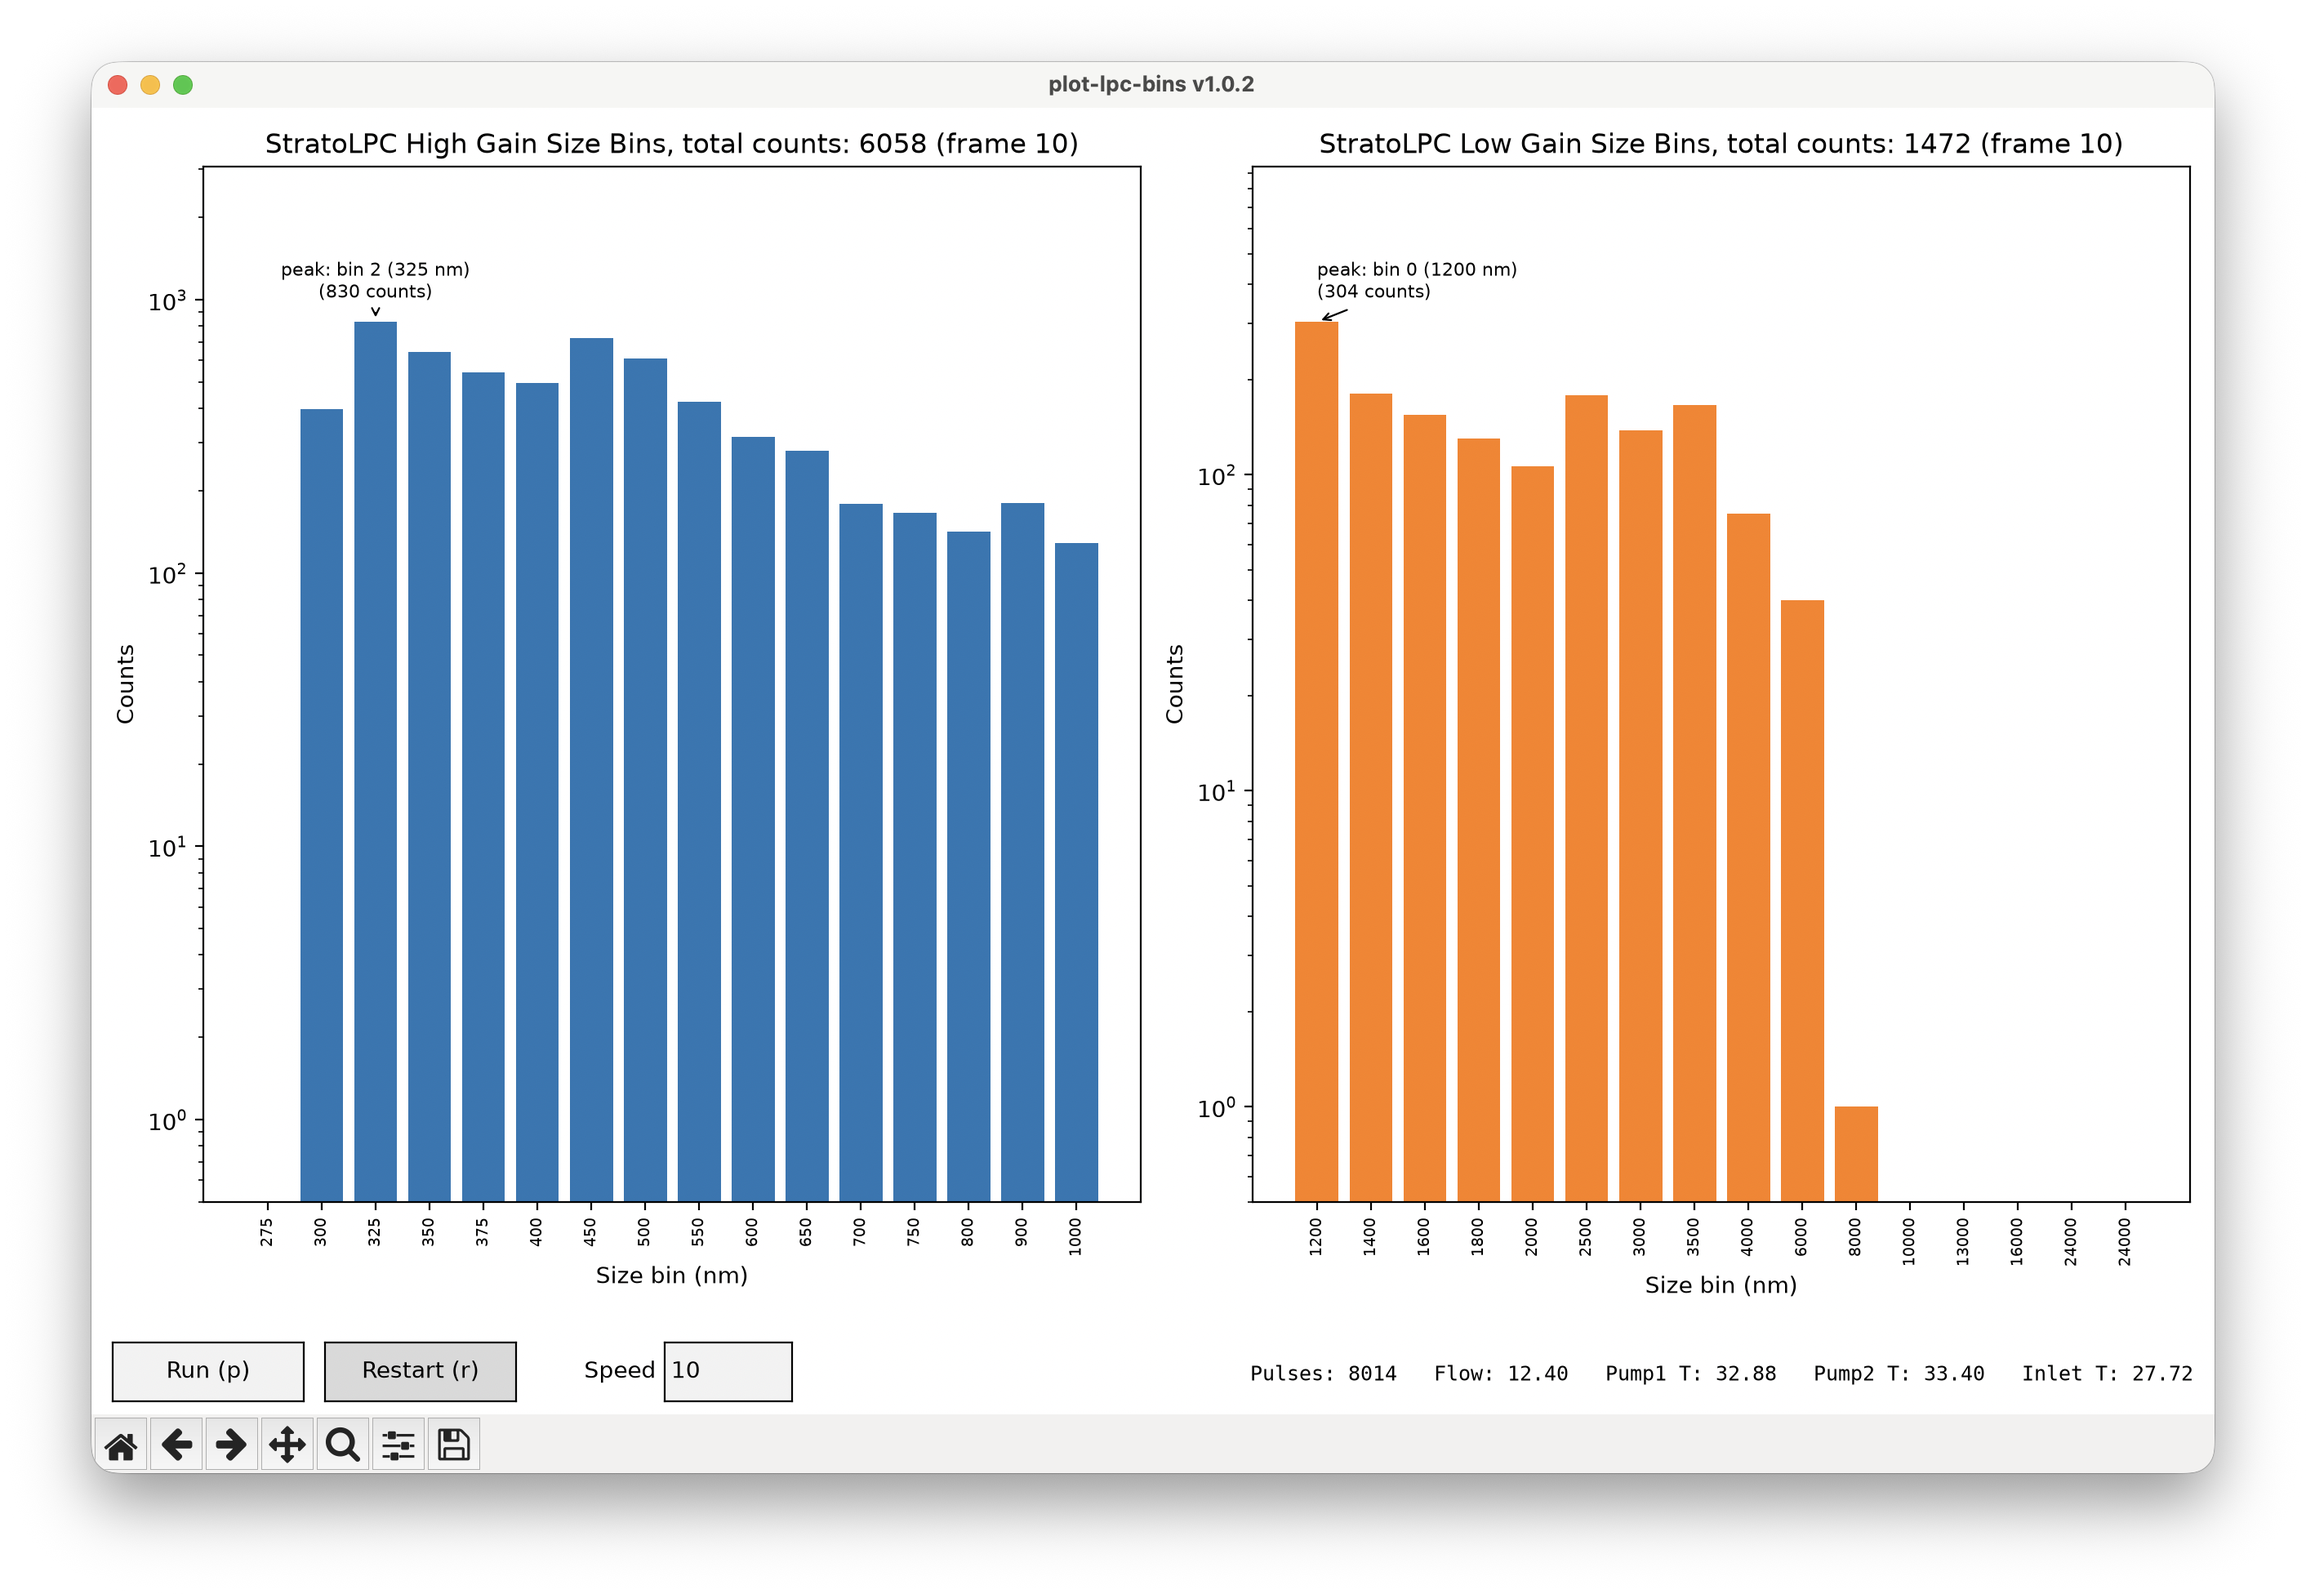
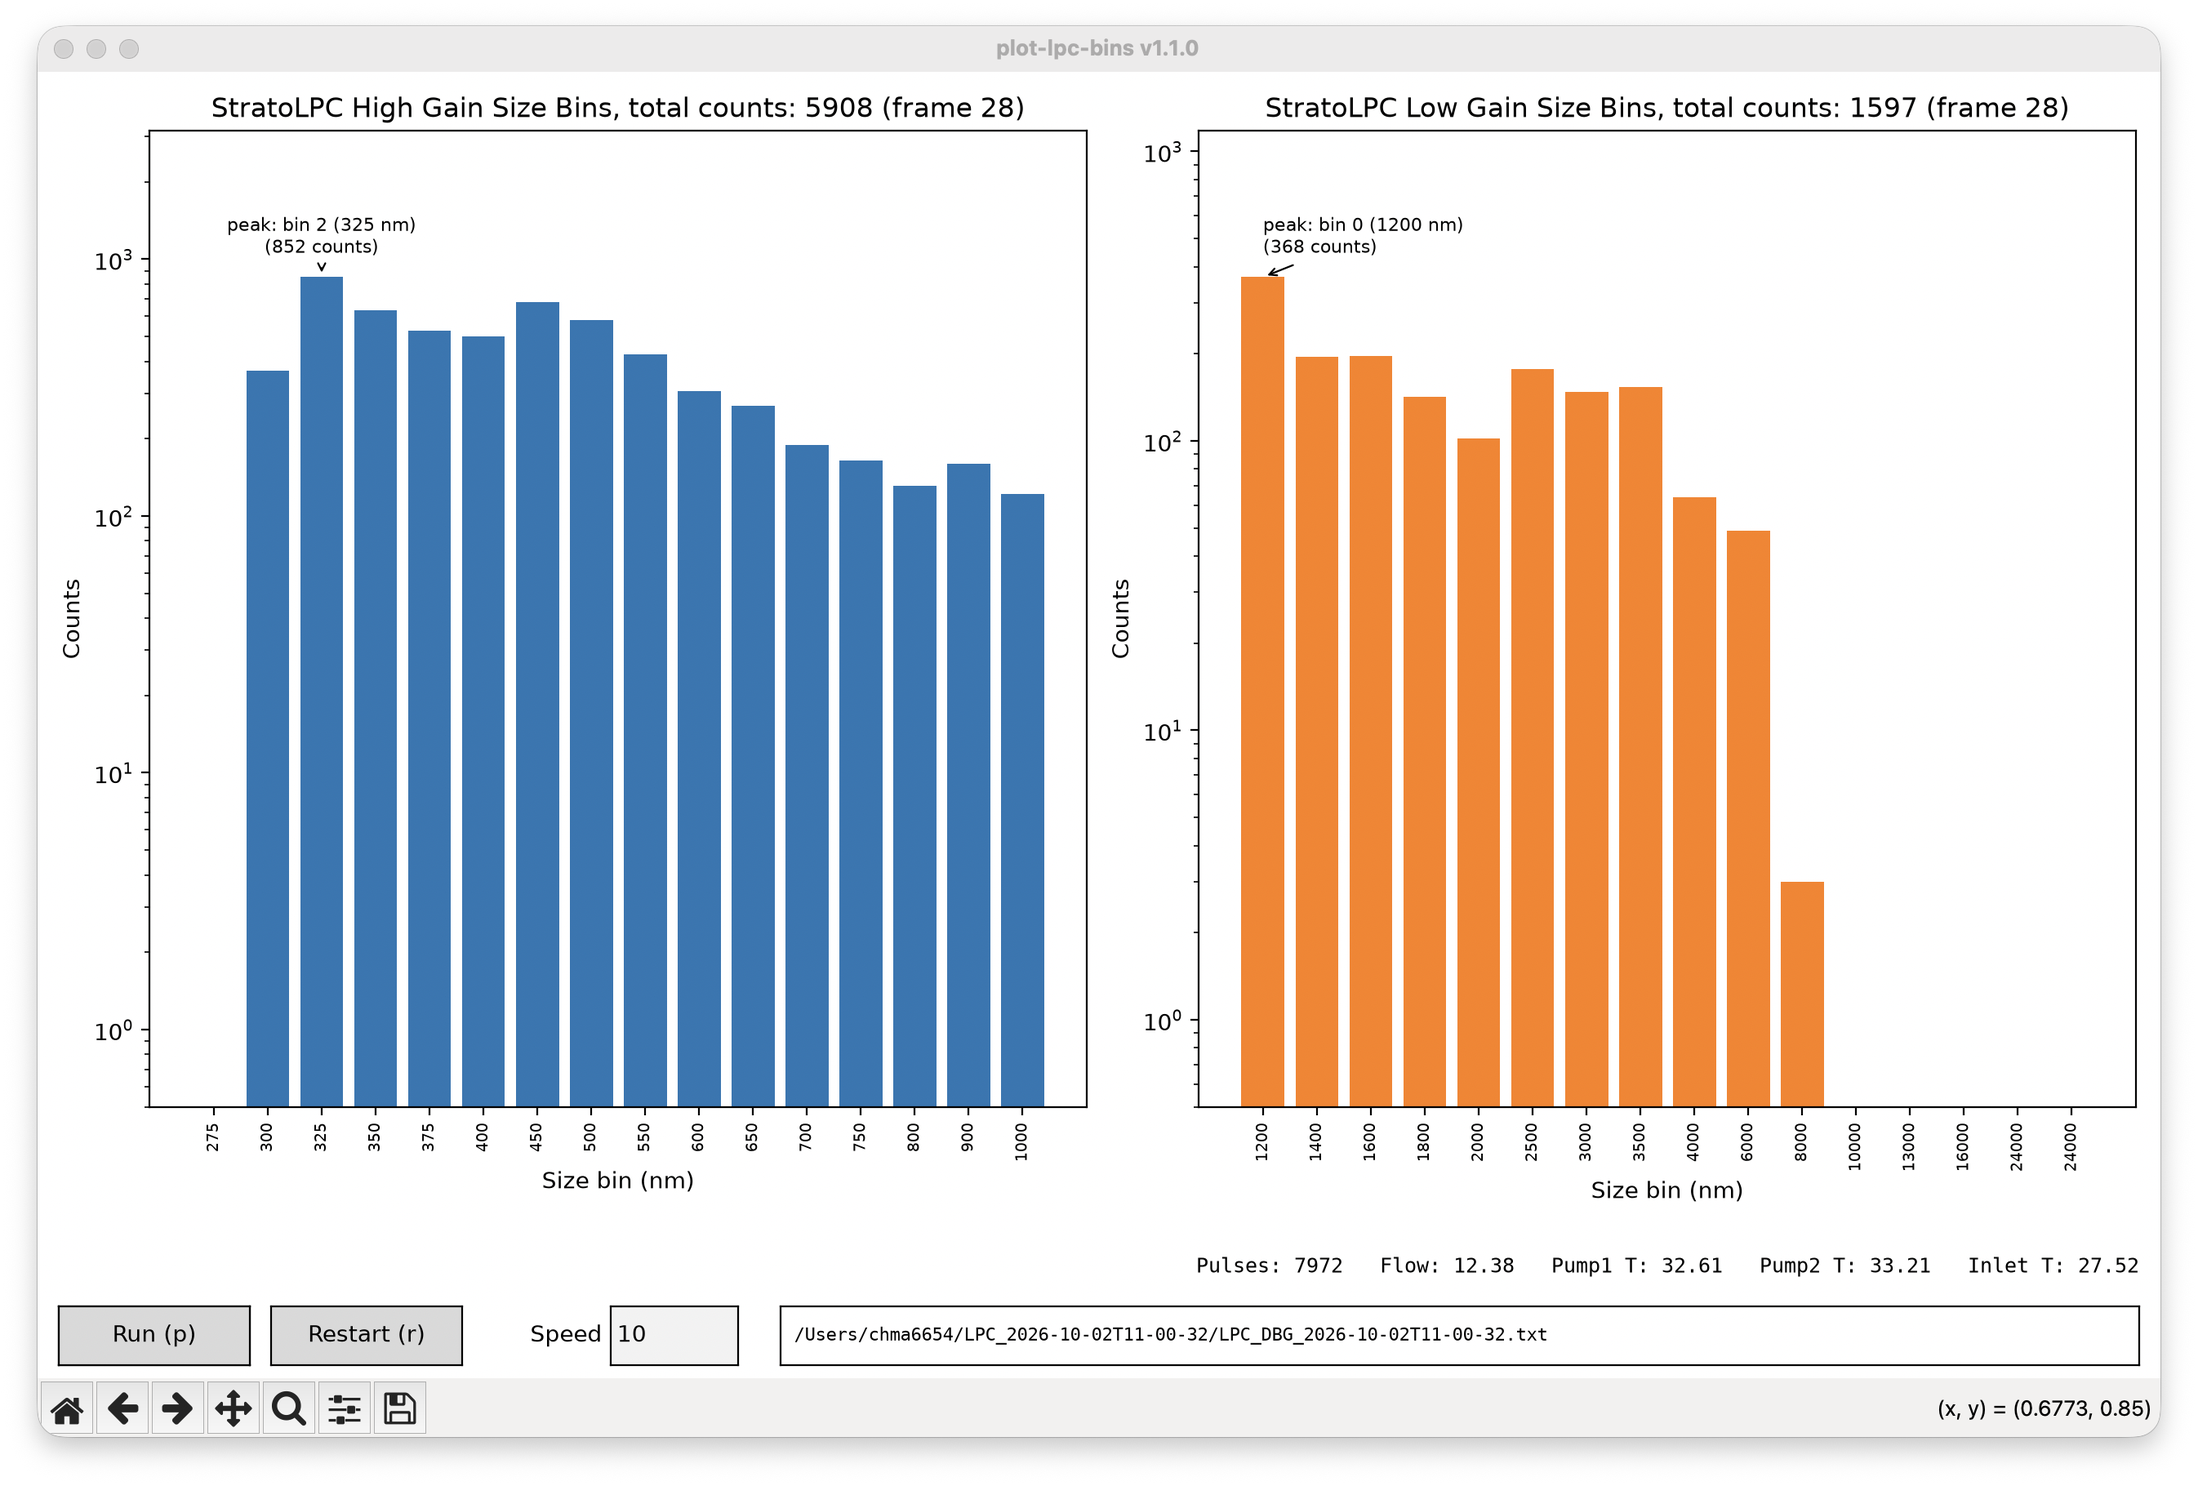
Capture live port data to a file; show the capture/replay file path
When reading from a live --port, record everything received to
LPC_capture_<timestamp>.txt (PHA_capture_<timestamp>.txt with --pha) in the
current directory. Lines are written by the reader thread as they arrive,
with the same [HH:MM:SS.mmm] prefix as the LPC_DBG logs, so a capture can be
replayed later with --file and --speed. Replays do not create a capture.

Show the full path of the capture file (live) or the replayed file
(--file) in a box at the bottom of the window, trimmed from the left only
if it doesn't fit. In live mode a Copy button puts the full path on the
clipboard (pbcopy / clip / wl-copy / xclip / xsel).

Move the housekeeping status bar to its own row above the buttons and path
box. Document the feature in the README and refresh the screenshot.

diff --git a/plot_lpc/plot_lpc_bins.py b/plot_lpc/plot_lpc_bins.py
@@ -61,15 +61,22 @@ Usage:
     # replay a timestamped log at 10x real time (1 = real time, 0.5 = half speed)
     python3 plot_lpc_bins.py --file LPC_DBG_log.txt --speed 10
 
+A live --port is also recorded to LPC_capture_<timestamp>.txt (PHA_capture_<timestamp>.txt with
+--pha) in the current directory; the path is shown at the bottom of the window
+with a Copy button.
+
 Requires: pyserial, matplotlib
     pip install pyserial matplotlib
 """
 
 import argparse
+import datetime
 import importlib.metadata
 import math
+import os
 import queue
 import re
+import subprocess
 import sys
 import threading
 import time
@@ -265,6 +272,74 @@ def window_title():
         return "plot-lpc-bins"
 
 
+class Capture:
+    """
+    Records everything arriving on a live port to <PREFIX>_capture_<YYYY-MM-DDTHH-MM-SS>.txt in
+    the current directory (PREFIX is LPC or PHA, mirroring the LPC_DBG_<timestamp>.txt
+    debug logs). Each line gets the same '[HH:MM:SS.mmm] ' prefix those logs use, so a
+    capture can be replayed later with --file (and --speed).
+    """
+
+    def __init__(self, prefix, args):
+        now = datetime.datetime.now()
+        self.path = os.path.abspath(f"{prefix}_capture_{now.strftime('%Y-%m-%dT%H-%M-%S')}.txt")
+        self._lock = threading.Lock()
+        self._f = open(self.path, "w", buffering=1)  # line buffered: always current on disk
+        self._f.write(f"{prefix} Capture: {now.strftime('%Y-%m-%d at %H:%M:%S')} ({args.port}, {args.baud} baud)\n\n")
+
+    def write(self, line):
+        stamp = datetime.datetime.now().strftime("%H:%M:%S.%f")[:-3]
+        with self._lock:
+            if self._f is not None:
+                self._f.write(f"[{stamp}] {line.rstrip(chr(13) + chr(10))}\n")
+
+    def close(self):
+        with self._lock:
+            if self._f is not None:
+                self._f.close()
+                self._f = None
+
+
+def add_text_box(fig, rect, text):
+    """
+    Add a bordered, read-only text box to the bottom strip. If the text doesn't fit
+    the box (at the window's initial size) its start is trimmed to "..." so the end
+    -- the file name -- stays visible.
+    """
+    ax = fig.add_axes(rect)
+    ax.set_xticks([])
+    ax.set_yticks([])
+    # clip_on so the text can never spill out of the box if the window is shrunk
+    label = ax.text(0.01, 0.5, text, va="center", ha="left", fontsize=8, family="monospace", clip_on=True)
+    try:
+        renderer = fig.canvas.get_renderer()
+    except AttributeError:  # backends without get_renderer()
+        renderer = fig._get_renderer()
+    room = ax.get_window_extent(renderer).width * 0.98 - 8  # pixels, minus the left inset
+    shown = text
+    while label.get_window_extent(renderer).width > room and len(shown) > 8:
+        shown = shown[1:]
+        label.set_text("..." + shown)
+    return ax
+
+
+def copy_to_clipboard(text):
+    """Put text on the system clipboard using the platform's tool; return True on success."""
+    if sys.platform == "darwin":
+        candidates = [["pbcopy"]]
+    elif sys.platform.startswith("win"):
+        candidates = [["clip"]]
+    else:
+        candidates = [["wl-copy"], ["xclip", "-selection", "clipboard"], ["xsel", "--clipboard", "--input"]]
+    for cmd in candidates:
+        try:
+            subprocess.run(cmd, input=text.encode(), check=True, timeout=5)
+            return True
+        except (OSError, subprocess.SubprocessError):
+            continue
+    return False
+
+
 class BinPlotter:
     """Owns the figure and knows how to redraw whichever bin arrays have new data."""
 
@@ -314,15 +389,16 @@ class BinPlotter:
                 ax.set_xlabel("Raw ADC bin (reversed)")
                 ax.set_ylabel("Counts")
 
-        # bottom strip: buttons (+ status bar in lpc mode); pha mode also leaves
-        # room at the top for its two-line titles
-        self.fig.tight_layout(rect=(0, 0.07, 1, 1 if mode == "lpc" else 0.94))
+        # bottom strip: a row of buttons + file path (y 0.01-0.055), with the
+        # status bar in a row above it in lpc mode; pha mode also leaves room at
+        # the top for its two-line titles
+        self.fig.tight_layout(rect=(0, 0.115 if mode == "lpc" else 0.07, 1, 1 if mode == "lpc" else 0.94))
         if mode == "lpc":
             # status bar: latest value of each housekeeping line (STATUS_FIELDS);
             # these lines only exist on the LPC console, so it's not shown for pha
             self.status = {key: "--" for key in STATUS_FIELDS.values()}
             self.status_text = self.fig.text(
-                0.99, 0.03, "", ha="right", va="center", fontsize=9, family="monospace"
+                0.99, 0.085, "", ha="right", va="center", fontsize=9, family="monospace"
             )
             self._render_status()
 
@@ -568,6 +644,16 @@ def main():
 
     plotter = BinPlotter("pha" if args.pha else "lpc")
 
+    # Live ports are recorded to a file in the current directory; replays aren't
+    capture = None
+    capture_error = None
+    if not args.file:
+        try:
+            capture = Capture("PHA" if args.pha else "LPC", args)
+        except OSError as e:
+            capture_error = str(e)
+            print(f"warning: not capturing data: {e}", file=sys.stderr)
+
     # Read the port/file on a background thread so the GUI never blocks on I/O.
     # The bounded queue throttles file replay (reader blocks when it's full)
     # while a live port just keeps filling it.
@@ -583,6 +669,8 @@ def main():
 
         try:
             for line in make_line_source(args):
+                if capture is not None:
+                    capture.write(line)  # on the reader thread, so a slow GUI never loses data
                 while not running.wait(0.2):  # hold here while paused
                     if superseded():
                         return
@@ -697,6 +785,38 @@ def main():
 
         plotter.fig.canvas.mpl_connect("key_press_event", on_key)
 
+        # full path of the file being replayed, where a live port shows its
+        # capture path (after the Speed box, out to the right edge)
+        add_text_box(
+            plotter.fig, [0.35, 0.01, 0.64, 0.045],
+            "stdin" if args.file == "-" else os.path.abspath(args.file),
+        )
+
+    # Capture file path box + Copy button (live ports only), in the bottom strip
+    if not args.file:
+        shown = capture.path if capture is not None else f"not capturing: {capture_error}"
+        add_text_box(plotter.fig, [0.08, 0.01, 0.91, 0.045], shown)
+
+        copy_button = Button(plotter.fig.add_axes([0.01, 0.01, 0.06, 0.045]), "Copy")
+
+        def reset_copy_label():
+            copy_button.label.set_text("Copy")
+            plotter.fig.canvas.draw_idle()
+
+        def on_copy(_event=None):
+            if capture is None:
+                return
+            copy_button.label.set_text("Copied!" if copy_to_clipboard(capture.path) else "Failed")
+            plotter.fig.canvas.draw_idle()
+            revert = plotter.fig.canvas.new_timer(interval=1500)
+            revert.single_shot = True
+            revert.add_callback(reset_copy_label)
+            revert.start()
+            copy_timers.append(revert)  # keep a reference so it isn't collected before firing
+
+        copy_timers = []
+        copy_button.on_clicked(on_copy)
+
     timer = plotter.fig.canvas.new_timer(interval=50)
     timer.add_callback(on_timer)
     timer.start()
@@ -707,6 +827,9 @@ def main():
         pass
     finally:
         stop.set()
+        if capture is not None:
+            capture.close()
+            print(f"Captured data saved to {capture.path}")
 
 
 if __name__ == "__main__":

diff --git a/plot_lpc/README.md b/plot_lpc/README.md
@@ -85,6 +85,12 @@ Lines are auto-detected one at a time, so any mix of the formats below can appea
 
 Any other line is printed to the terminal unchanged, so you can still see the instrument's log messages. The five housekeeping lines go to the status bar (default plot only) and are not echoed.
 
+## Capturing live data
+
+When reading from a live `--port`, everything that arrives is also saved to a file in the directory you started the program from, named like the LPC debug logs: `LPC_capture_<YYYY-MM-DDTHH-MM-SS>.txt` for the default plots, or `PHA_capture_<...>.txt` with `--pha`. The file is written as it arrives (not just at exit), and every line carries the same `[HH:MM:SS.mmm]` prefix as the `LPC_DBG_*.txt` logs, so a capture can be replayed later with `--file` and `--speed`.
+
+The file's full path is shown in a box at the bottom left of the window. The **Copy** button next to it copies the full path to the clipboard (it uses `pbcopy` on macOS, `clip` on Windows, and `wl-copy`, `xclip` or `xsel` on Linux). The path is also printed to the terminal when you close the window. Replaying a file with `--file` does not create a capture.
+
 ## Playback controls
 
 These appear when you use `--file`. A live `--port` has no controls, because pausing a serial stream would lose data.
